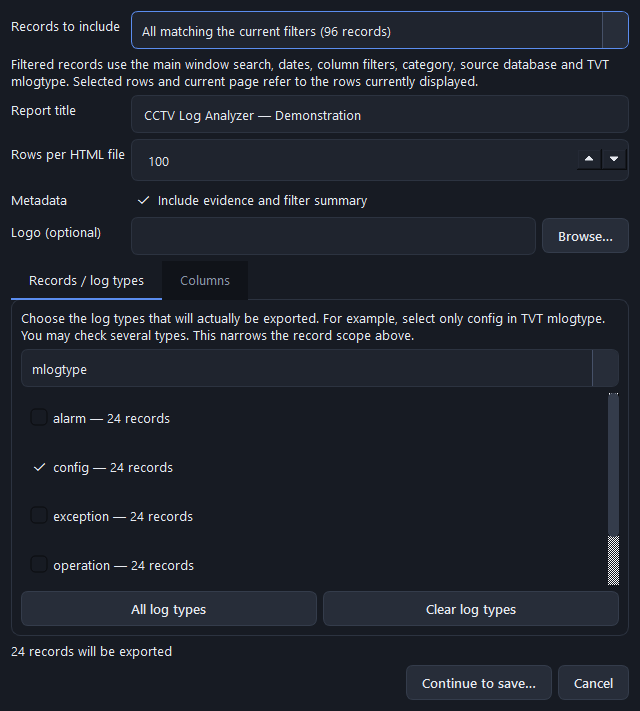
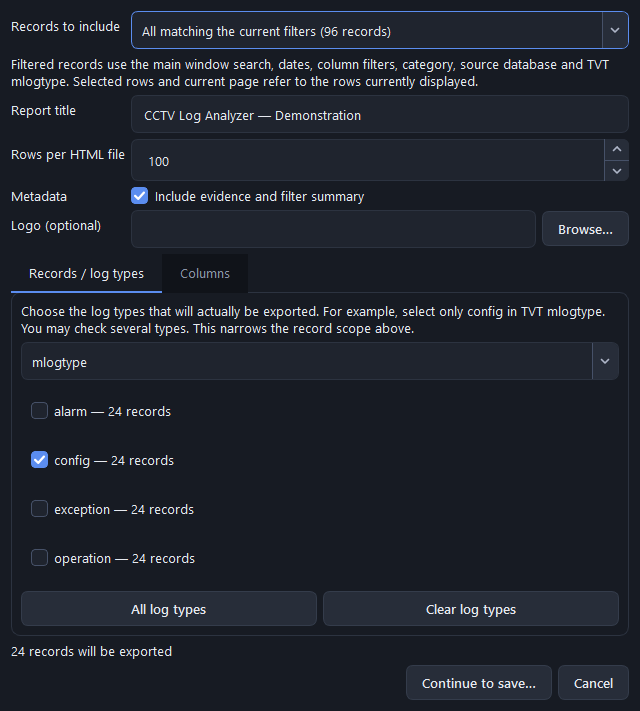
Fix drop-down, spin-box, checkbox and scrollbar styling; widen search box

diff --git a/cctv_log_analyzer.py b/cctv_log_analyzer.py
@@ -100,6 +100,32 @@ QComboBox::drop-down, QDateEdit::drop-down {
     background: #272d39; border-left: 1px solid #465168;
     width: 25px; border-top-right-radius: 6px; border-bottom-right-radius: 6px;
 }
+QSpinBox { padding-right: 30px; }
+QSpinBox::up-button, QSpinBox::down-button {
+    subcontrol-origin: border; width: 24px;
+    background: #272d39; border-left: 1px solid #465168;
+}
+QSpinBox::up-button { subcontrol-position: top right; border-top-right-radius: 6px; }
+QSpinBox::down-button {
+    subcontrol-position: bottom right; border-bottom-right-radius: 6px;
+    border-top: 1px solid #465168;
+}
+QSpinBox::up-button:hover, QSpinBox::down-button:hover,
+QComboBox::drop-down:hover, QDateEdit::drop-down:hover { background: #303746; }
+QSpinBox::up-button:pressed, QSpinBox::down-button:pressed { background: #202631; }
+QCheckBox { spacing: 7px; }
+QCheckBox::indicator, QListView::indicator {
+    width: 15px; height: 15px; border: 1px solid #465168; border-radius: 4px;
+    background: #1f242e;
+}
+QCheckBox::indicator:hover, QListView::indicator:hover { border-color: #5b8def; }
+QCheckBox::indicator:checked, QListView::indicator:checked {
+    background: #5b8def; border-color: #5b8def;
+}
+QCheckBox::indicator:disabled, QListView::indicator:disabled {
+    background: #1b1f27; border-color: #343c4b;
+}
+QCheckBox::indicator:checked:disabled { background: #465168; border-color: #465168; }
 QCalendarWidget { background: #171b23; color: #e6e9f0; }
 QCalendarWidget QWidget#qt_calendar_navigationbar { background: #1f242e; }
 QCalendarWidget QToolButton, QCalendarWidget QSpinBox {
@@ -150,8 +176,14 @@ QTextEdit, QPlainTextEdit {
     background: #0d1015; color: #a8d8b9; border: none;
     font-family: "Cascadia Mono", Consolas, monospace; padding: 10px;
 }
-QScrollBar:vertical { background: #141820; width: 11px; }
-QScrollBar::handle:vertical { background: #343c4b; border-radius: 5px; min-height: 28px; }
+QScrollBar:vertical { background: #141820; width: 11px; margin: 0; border: none; }
+QScrollBar:horizontal { background: #141820; height: 11px; margin: 0; border: none; }
+QScrollBar::handle:vertical { background: #343c4b; border-radius: 5px; min-height: 28px; margin: 1px; }
+QScrollBar::handle:horizontal { background: #343c4b; border-radius: 5px; min-width: 28px; margin: 1px; }
+QScrollBar::handle:hover { background: #465168; }
+QScrollBar::add-line, QScrollBar::sub-line { width: 0; height: 0; border: none; background: none; }
+QScrollBar::add-page, QScrollBar::sub-page { background: none; }
+QAbstractScrollArea::corner { background: #141820; border: none; }
 QStatusBar { background: #171b23; color: #8b94a8; }
 QListWidget { background: transparent; border: none; outline: none; }
 QListWidget::item { padding: 9px 7px; border-radius: 6px; }
@@ -191,7 +223,26 @@ QComboBox QAbstractItemView, QCalendarWidget QAbstractItemView, QMenu {
 }
 QMenu::item:selected { color: #171a21; }
 """
-    return sheet
+    return sheet + arrow_stylesheet(theme)
+
+
+def arrow_stylesheet(theme):
+    """Arrow icons for drop-downs and spin boxes, coloured for the theme.
+
+    A styled drop-down or spin button no longer draws Qt's native arrow, so
+    explicit images are required for the controls to remain usable.
+    """
+    def icon(direction):
+        return resource_path("assets", f"arrow-{direction}-{theme}.svg").as_posix()
+    return f"""
+QComboBox::down-arrow, QDateEdit::down-arrow, QSpinBox::down-arrow {{
+    image: url("{icon('down')}"); width: 12px; height: 12px;
+}}
+QSpinBox::up-arrow {{ image: url("{icon('up')}"); width: 12px; height: 12px; }}
+QCheckBox::indicator:checked, QListView::indicator:checked {{
+    image: url("{resource_path('assets', 'check.svg').as_posix()}");
+}}
+"""
 
 class ExtractionThread(QThread):
     log_signal = Signal(str)
@@ -570,11 +621,13 @@ class CCTVLogAnalyzerWindow(QMainWindow):
         
         filter_layout = QHBoxLayout()
         self.table_selector = QComboBox()
-        self.table_selector.setMinimumWidth(170)
+        self.table_selector.setMinimumWidth(150)
         self.table_selector.setToolTip("Select an extracted dataset/table")
         self.table_selector.currentTextChanged.connect(self.table_changed)
         self.filter_text = QLineEdit()
-        self.filter_text.setPlaceholderText("Global search across all columns...")
+        self.filter_text.setPlaceholderText("Search all columns…")
+        self.filter_text.setToolTip("Global search across all columns")
+        self.filter_text.setMinimumWidth(180)
         self.filter_text.returnPressed.connect(self.reset_and_populate)
         self.category_selector = QComboBox()
         self.category_selector.setMinimumWidth(150)
@@ -588,9 +641,11 @@ class CCTVLogAnalyzerWindow(QMainWindow):
         btn_clear = QPushButton("Clear")
         btn_clear.clicked.connect(self.clear_filters)
         
-        btn_export_csv = QPushButton("Export to Excel/CSV")
+        btn_export_csv = QPushButton("Export CSV")
+        btn_export_csv.setToolTip("Export the filtered records to a CSV file (opens in Excel)")
         btn_export_csv.clicked.connect(self.action_export_csv)
-        btn_export_html = QPushButton("Export to HTML")
+        btn_export_html = QPushButton("Export HTML")
+        btn_export_html.setToolTip("Export the filtered records to a multi-page HTML report")
         btn_export_html.clicked.connect(self.action_export_html)
         
         filter_layout.addWidget(QLabel("Dataset:"))

diff --git a/tests/test_theme_and_recents.py b/tests/test_theme_and_recents.py
@@ -20,6 +20,27 @@ def test_dropdown_and_calendar_popups_have_theme_specific_colors():
     assert "QMenu::item:selected { color: #171a21; }" in light
 
 
+def test_dropdown_and_spinbox_arrows_have_images_in_both_themes():
+    from pathlib import Path
+    build = (Path(ui.__file__).parent / "build.bat").read_text(encoding="utf-8")
+    for theme in ("dark", "light"):
+        sheet = ui.application_stylesheet(theme, "Segoe UI", 13)
+        for subcontrol in ("QComboBox::down-arrow", "QSpinBox::up-arrow",
+                           "QSpinBox::up-button", "QSpinBox::down-button",
+                           "QScrollBar:horizontal", "QScrollBar::add-page"):
+            assert subcontrol in sheet, (theme, subcontrol)
+        for direction in ("up", "down"):
+            icon = ui.resource_path("assets", f"arrow-{direction}-{theme}.svg")
+            assert icon.is_file()
+            assert icon.as_posix() in sheet
+            assert f"assets\\arrow-{direction}-{theme}.svg" in build  # bundled in the exe
+        assert "QCheckBox::indicator:checked" in sheet
+        assert "QCheckBox::indicator:disabled" in sheet
+        assert ui.resource_path("assets", "check.svg").as_posix() in sheet
+        assert "image: none" not in sheet  # disabled controls keep their arrows
+    assert "assets\\check.svg" in build
+
+
 def test_clear_recent_requires_confirmation_and_refreshes_sidebar(monkeypatch):
     application = QApplication.instance() or QApplication([])
     monkeypatch.setattr(ui.recents, "recent", lambda limit: [])

diff --git a/docs/PROGRESS.md b/docs/PROGRESS.md
@@ -20,7 +20,7 @@ Last validated: 2026-10-15
 - Physical Drive checks for Administrator rights before reading and offers
   "Restart as Administrator" through the Windows UAC prompt; a header badge shows
   when the app is elevated.
-- Validation: 147 regression tests pass. The console and windowed executables
+- Validation: 148 regression tests pass. The console and windowed executables
   start and open the main window, and the installer builds. See
   `docs/BUILD_NOTES.md`.
 
@@ -177,7 +177,7 @@ damaged records have no recoverable timestamp.
 
 ## Automated Verification
 
-- 147 unit/regression tests pass under headless Qt (2026-10-15 update), including
+- 148 unit/regression tests pass under headless Qt (2026-10-15 update), including
   live worker cancellation and rendering all three investigation tabs in both themes.
 - Real-image end-to-end SQLite creation passed integrity checks for all three
   vendors.

diff --git a/CHANGELOG.md b/CHANGELOG.md
@@ -17,6 +17,11 @@
   over the neighbouring column.
 - Tooltips have explicit colours in both themes, so they stay readable with the
   Windows light theme; long tooltips are shortened.
+- Drop-down and spin-box arrows are drawn in both themes (they were missing or
+  rendered as broken button fragments), including on disabled controls;
+  checkboxes have a visible box in every state; scrollbars no longer show a
+  checkered track; and the search box keeps a usable width at the default
+  window size.
 - New System theme (the default) follows the Windows light/dark app setting and
   switches live when it changes; Dark and Light remain available.
 - Licensed under GPL-3.0.

diff --git a/docs/ARCHITECTURE.md b/docs/ARCHITECTURE.md
@@ -101,7 +101,7 @@ Raw / E01 evidence
 
 ## 5. Verification
 
-The automated suite currently contains 147 tests. Real-image validation uses
+The automated suite currently contains 148 tests. Real-image validation uses
 a controlled set of evidence images; diagnostic outputs are
 written only to temporary directories and the evidence is opened read-only.
 
